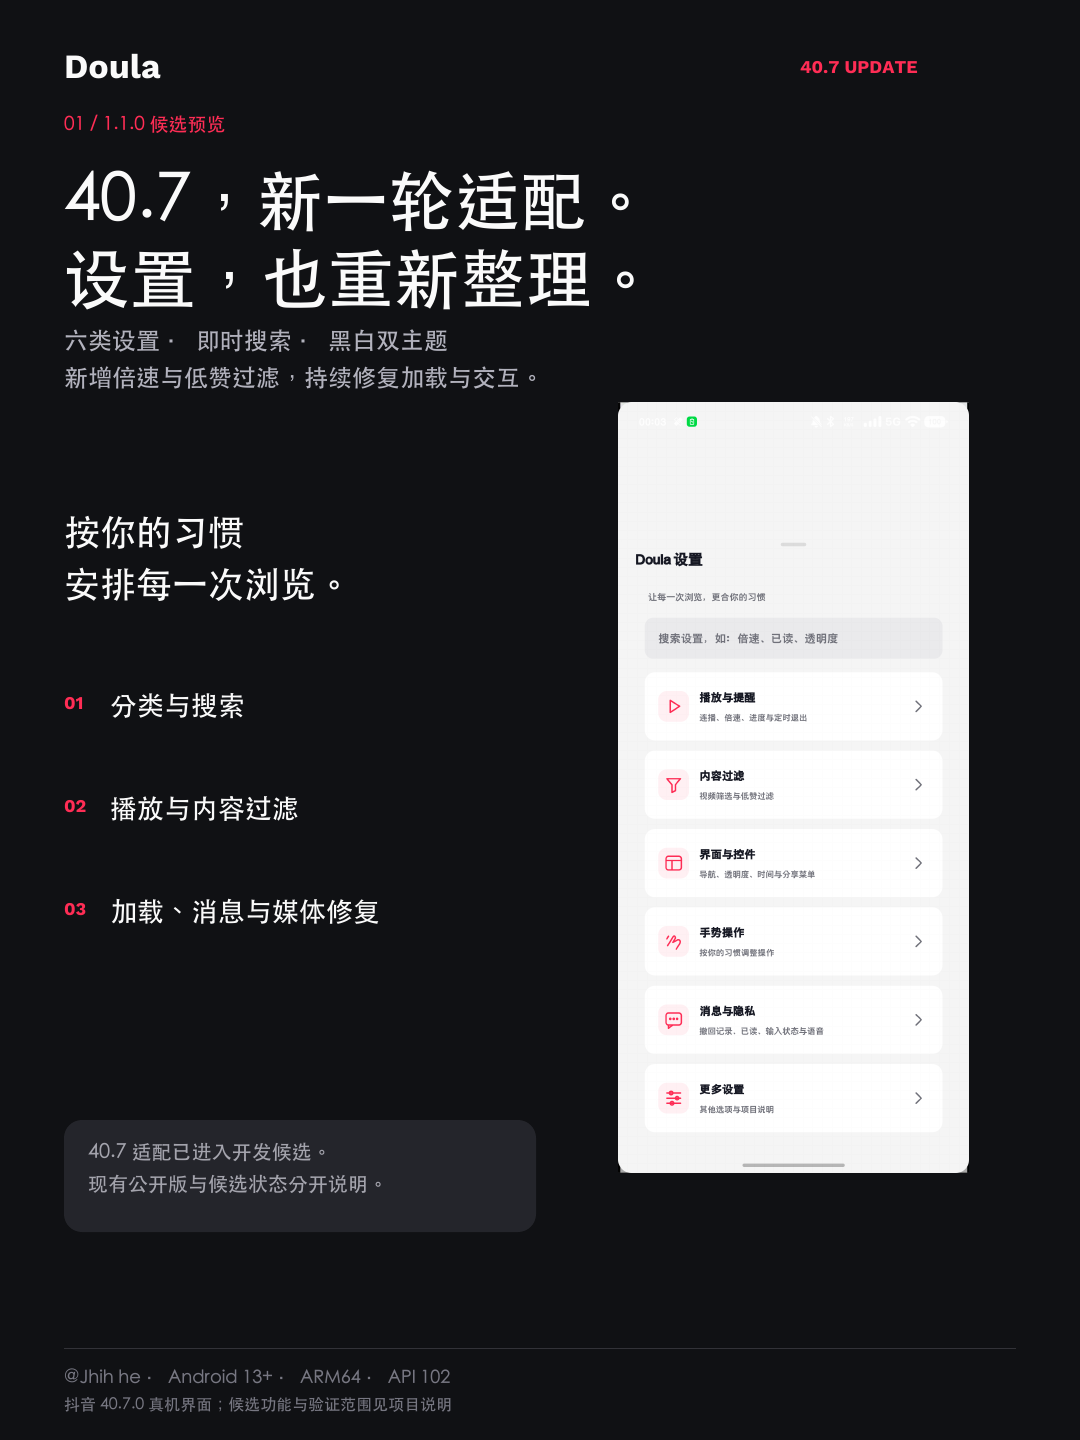
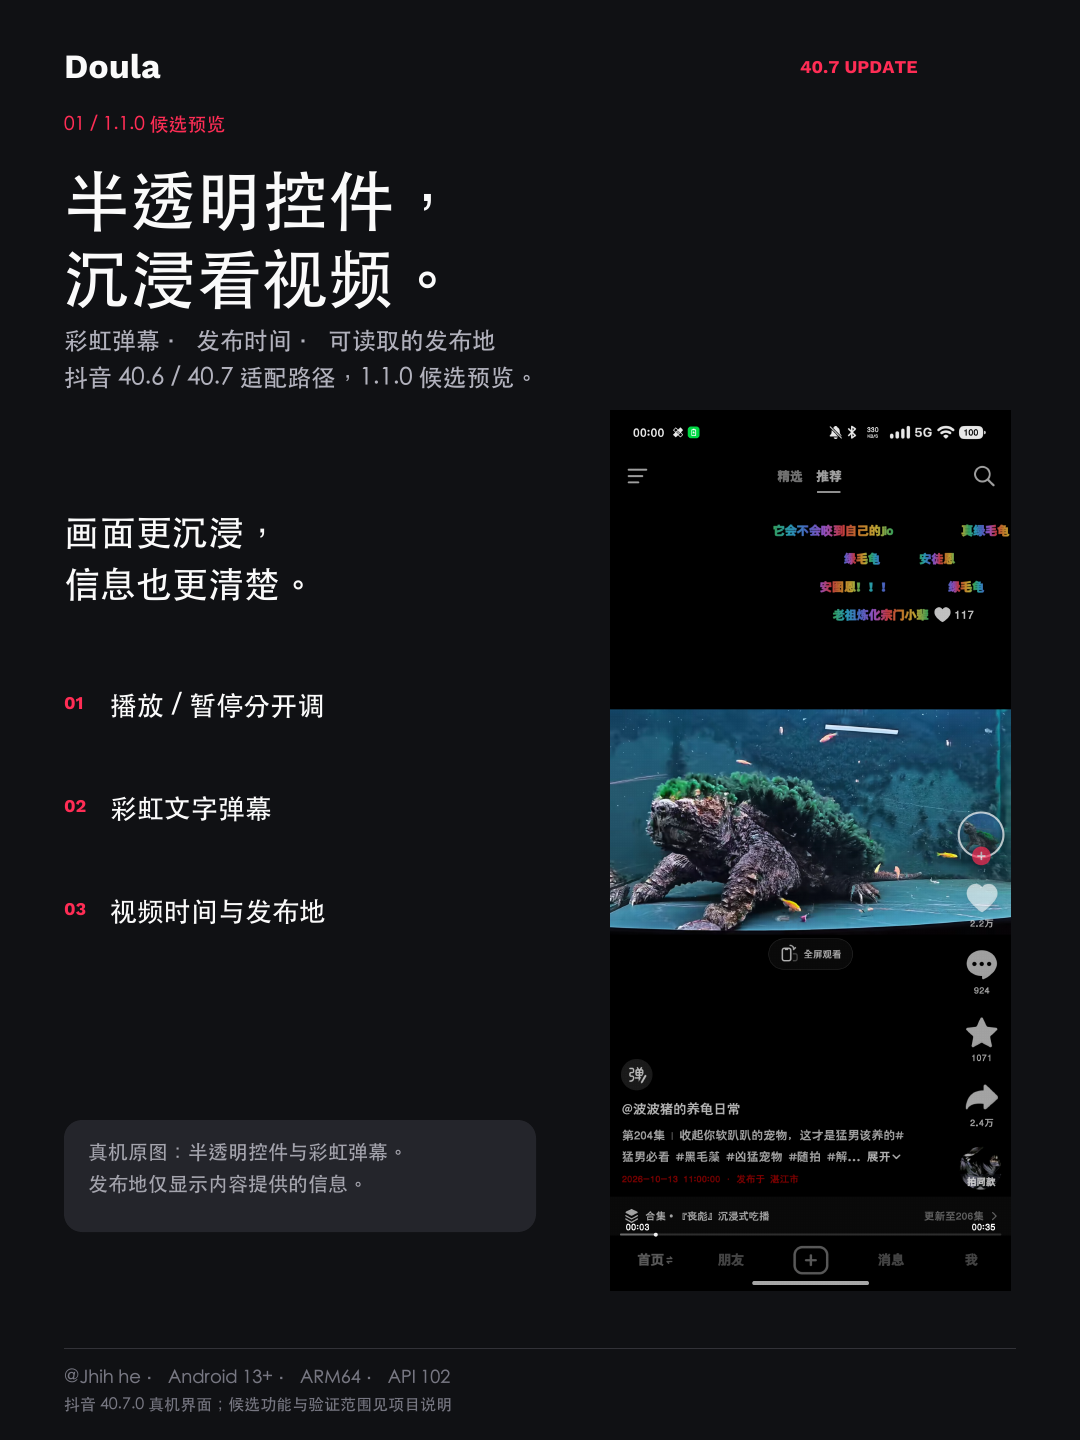
Emphasize translucent immersive playback, rainbow danmaku and publication info

diff --git a/README.md b/README.md
@@ -1,10 +1,10 @@
 <div align="center">
 
-# Doula · 抖音 40.6 / 40.7 增强模块
+# Doula · 沉浸播放，让画面更出彩
 
-让每一次浏览，更合你的习惯。
+抖音 40.6 / 40.7 · 让画面更沉浸，让弹幕与信息更清楚。
 
-**新 UI · 分类搜索 · 播放倍速 · 推荐低赞过滤 · 沉浸界面**
+**全屏控件半透明沉浸播放 · 彩虹弹幕 · 发布时间与发布地**
 
 @Jhih he · Android 13+ · ARM64 · 现代 Xposed API 102
 
@@ -25,6 +25,26 @@
 | [1.0.2 测试版 preview.9](https://github.com/Xposed-Modules-Repo/io.github.jhihhe.doula/releases/tag/2026100621-1.0.2-dy40.6.0-api102-preview.9) | 历史测试通道保留，与同次正式版代码和功能一致，仅版本标识不同。 |
 
 安装包和可用版本以 Releases 为准。宣传页更新不等于新 APK 已发布，请勿把旧包用于验证本轮新增功能。
+
+## 重点体验：画面更沉浸，信息更清楚
+
+### 全屏控件半透明沉浸播放
+
+顶部菜单、视频控件、底部菜单的透明度分别调节，播放与暂停各有一套设置。**0–100 自由选择：半透明保留必要操作提示，完全透明让画面更干净，暂停时也可以恢复显示。** 状态栏与导航栏另有显示选项，视频保持原始画幅，不强行拉伸横屏内容。
+
+透明不等于禁用点击，也不承诺所有页面和原生控件都隐藏。建议先选半透明，再按习惯微调。[透明度和手势真机界面](GALLERY.md)
+
+### 彩虹弹幕
+
+让文字弹幕呈现彩虹渐变，保留图片表情原样，不把普通菜单一起染色。**下图为40.7候选的真实显示**；已验证的Compose路径、关闭恢复白色及其他待测后端见[验证记录](VALIDATION.md)。
+
+### 视频发布时间与发布地
+
+分别选择显示时间、显示发布地，也可启用多彩显示。让内容发布信息更直观；**仅显示视频提供的可读取发布地，缺失时不猜测、不推算创作者实时位置**。这不是查看他人当前位置的工具。
+
+![彩虹弹幕、发布时间与发布地实景](posters/update-40.7/07-rainbow-information.png)
+
+真机截图同时展示半透明控件、彩虹弹幕与视频时间/发布地，来自40.7 / rainbow-test.20候选。视频与弹幕为第三方公开内容，创作者与本模块无关联。
 
 ## 设置更多，查找更直接
 
@@ -70,7 +90,7 @@
 
 [新 UI 完整截图集](GALLERY.md) · [新增与原有功能清单](FEATURES.md) · [验证范围](VALIDATION.md) · [宣传文案](MARKETING.md)
 
-本轮 10 张截图均为真机原图，来自 test.21 / .23 / .24 / .26 候选，确切版本见截图集。截图里的选项值不代表默认值；海报只排版文字和原图，不表示最终包全部验收。旧图和历史说明保留在 [1.0.x 记录](README-1.0.x.md)。
+本轮 11 张截图均为真机原图，来自 rainbow-test.20 与 test.21 / .23 / .24 / .26 候选，确切版本见截图集。截图里的选项值不代表默认值；海报只排版文字和原图，不表示最终包全部验收。旧图和历史说明保留在 [1.0.x 记录](README-1.0.x.md)。
 
 [提交问题](https://github.com/jhihhe/Doula-Douyin-LSPosed/issues)。体验有帮助，欢迎收藏、留言并自愿支持维护；反馈请附具体版本和复现步骤。
 

diff --git a/FEATURES.md b/FEATURES.md
@@ -2,6 +2,12 @@
 
 作者：@Jhih he · 2026-10-16。本页覆盖 1.1.0 开发候选新增与原有功能。适配路径为抖音40.6.0 / 40.7.0；最终统一包完整回归仍在进行，尚未公开发行。下面列出能力、配置与限制，不表示全部场景已经验收。当前公开1.0.2不包含本轮全部新增功能，详见 [验证记录](VALIDATION.md)。
 
+## 三项重点体验
+
+- **全屏控件半透明沉浸播放**：顶/底菜单和视频控件0–100分别调节，播放与暂停独立配置；保留原视频画幅，透明不等于禁用点击。
+- **彩虹弹幕**：文字渐变、图片表情保留；40.7 Compose候选已见真机效果，其他后端按验证范围说明。
+- **发布时间与发布地**：分别开关，可选多彩；仅显示内容可读取数据，不推算缺失信息或实时位置。
+
 ## 1.1.0 新增与重绘
 
 | 功能 | 选项、使用条件与边界 |

diff --git a/GALLERY.md b/GALLERY.md
@@ -4,6 +4,12 @@
 
 以下均为抖音 40.7.0 / Android 17 / ARM64 上的实际模块界面，保留完整截图。不同页面来自不同开发候选，**不是最终发行版全功能通过证明**。选项值为测试时状态，不代表默认值。
 
+## 半透明控件、彩虹弹幕与发布时间/发布地实景
+
+Doula `1.1.0-rainbow-test.20` · 抖音 `40.7.0 / 400701`
+
+![半透明控件、彩虹弹幕与发布时间/发布地实景](screenshots/update-40.7/11-rainbow-time-place.png)
+
 ## 六类设置主页面 · 浅色
 
 Doula `1.1.0-native-settings.21` · 抖音 `40.7.0 / 400701`
